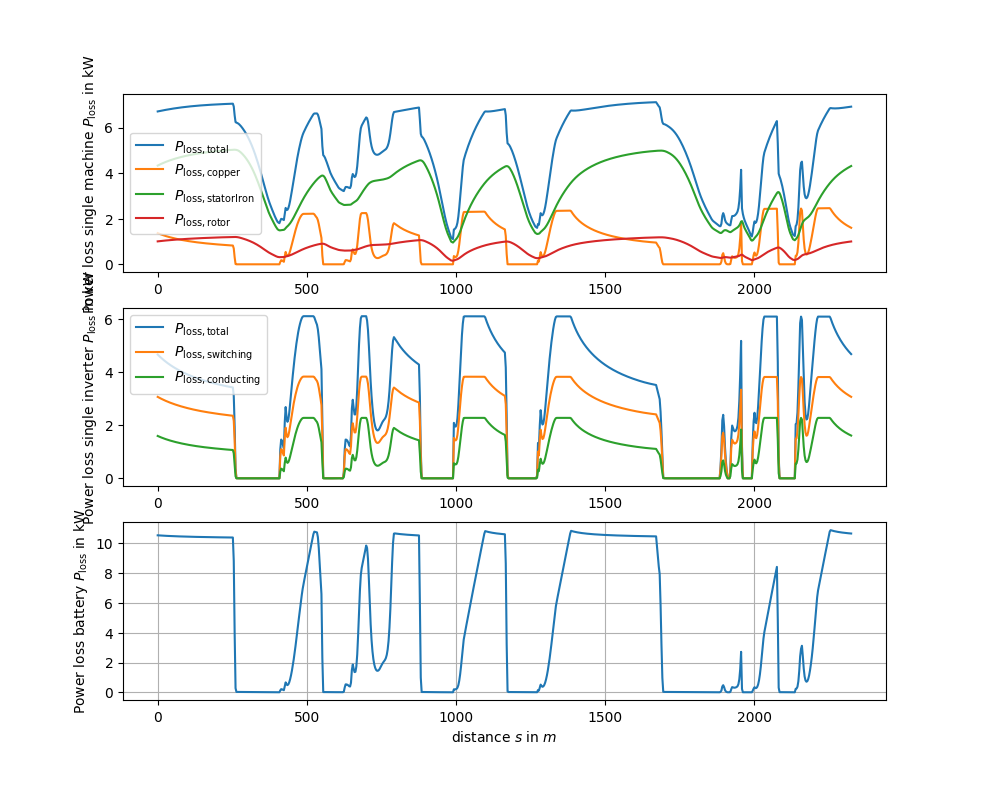
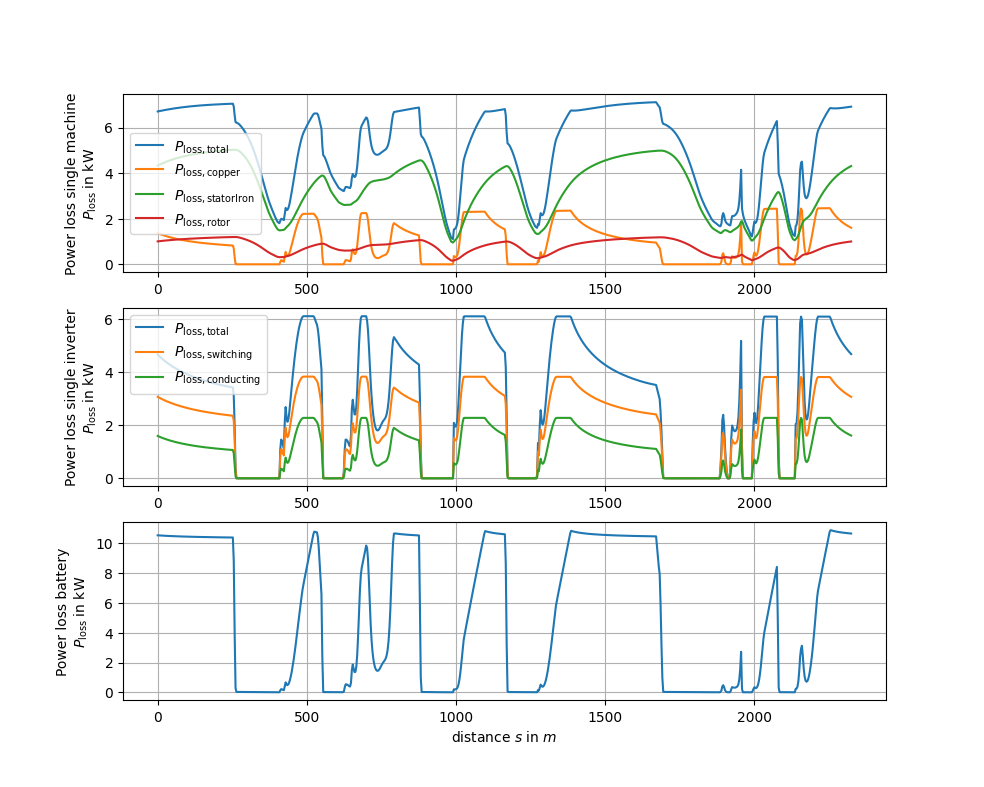
Update powertrain plot layout

Changed region(s): [[0.061, 0.0915, 0.122, 0.9149]]

diff --git a/opt_mintime_traj/src/result_plots_mintime.py b/opt_mintime_traj/src/result_plots_mintime.py
@@ -458,19 +458,21 @@ def result_plots_mintime(pars: dict,
             plt.plot(s[:-1], pwr["machine"].p_loss_copper)
             plt.plot(s[:-1], pwr["machine"].p_loss_stator_iron)
             plt.plot(s[:-1], pwr["machine"].p_loss_rotor)
-            plt.ylabel('Power loss single machine ' + r'$\it{P_\mathrm{loss}}$' + ' in ' + r'kW')
+            plt.ylabel('Power loss single machine\n' + r'$\it{P_\mathrm{loss}}$' + ' in ' + r'kW')
             plt.legend([r'$\it{P_\mathrm{loss,total}}$', r'$\it{P_\mathrm{loss,copper}}$',
                         r'$\it{P_\mathrm{loss,statorIron}}$', r'$\it{P_\mathrm{loss,rotor}}$'])
+            plt.grid()
             plt.subplot(312)
             plt.plot(s[:-1], pwr["inverter"].p_loss_total)
             plt.plot(s[:-1], pwr["inverter"].p_loss_switch)
             plt.plot(s[:-1], pwr["inverter"].p_loss_cond)
             plt.legend([r'$\it{P_\mathrm{loss,total}}$', r'$\it{P_\mathrm{loss,switching}}$',
                         r'$\it{P_\mathrm{loss,conducting}}$'])
-            plt.ylabel('Power loss single inverter ' + r'$\it{P_\mathrm{loss}}$' + ' in ' + r'kW')
+            plt.ylabel('Power loss single inverter\n' + r'$\it{P_\mathrm{loss}}$' + ' in ' + r'kW')
+            plt.grid()
             plt.subplot(313)
             plt.plot(s[:-1], pwr["batt"].p_loss_total)
-            plt.ylabel('Power loss battery ' + r'$\it{P_\mathrm{loss}}$' + ' in ' + r'kW')
+            plt.ylabel('Power loss battery\n' + r'$\it{P_\mathrm{loss}}$' + ' in ' + r'kW')
 
         plt.xlabel('distance ' + r'$\it{s}$' + ' in ' + r'$\it{m}$')
         plt.grid()
